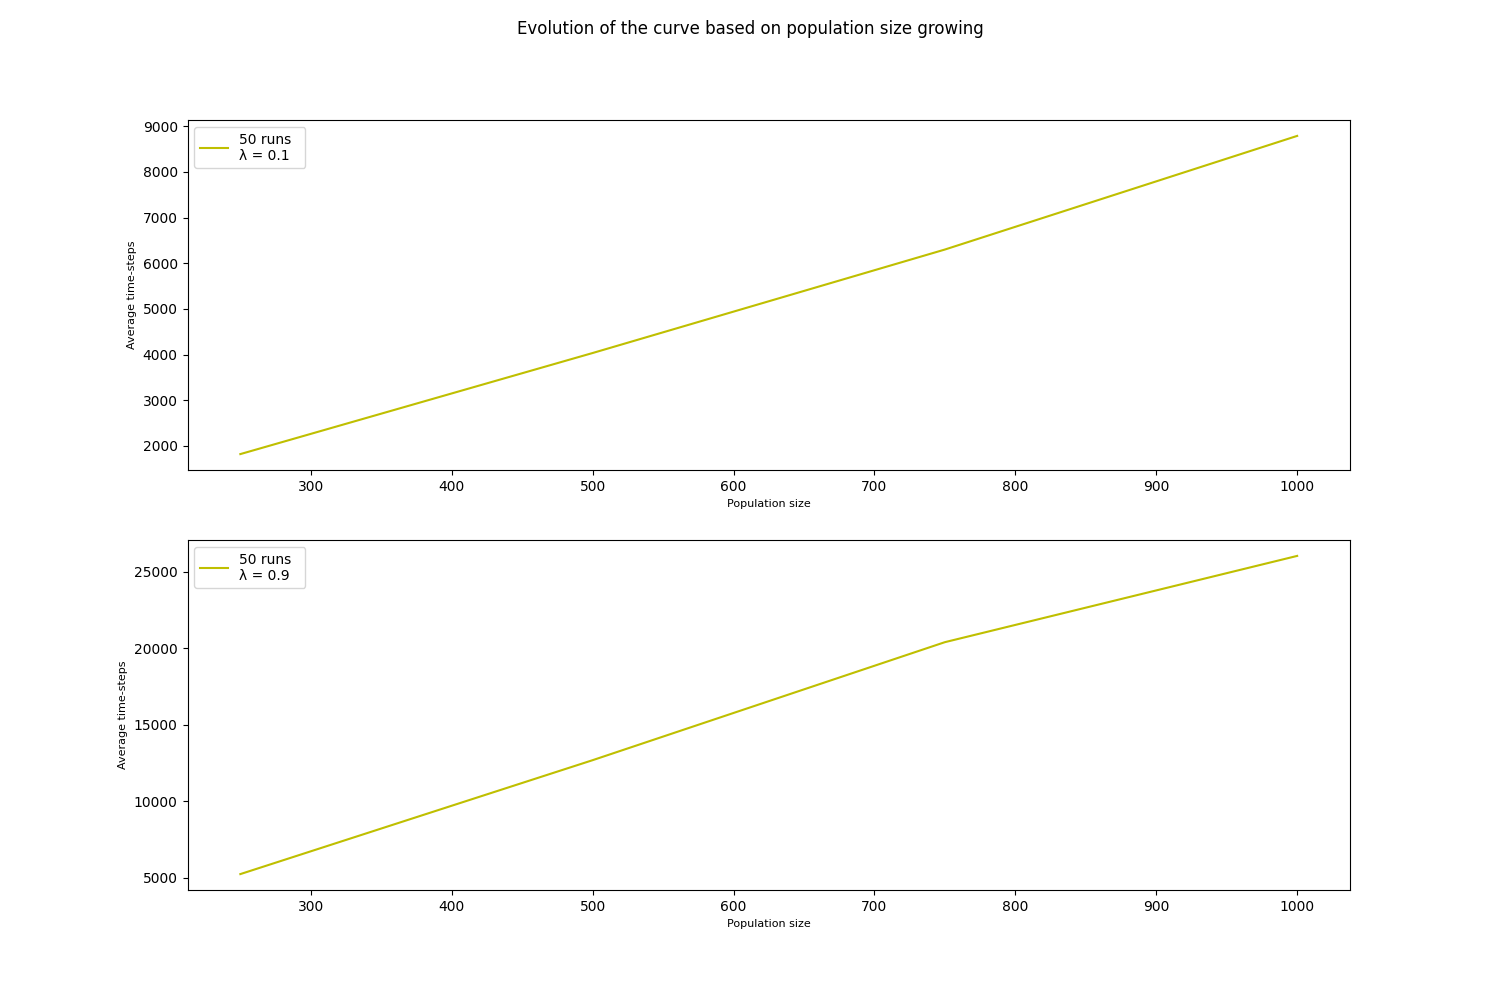
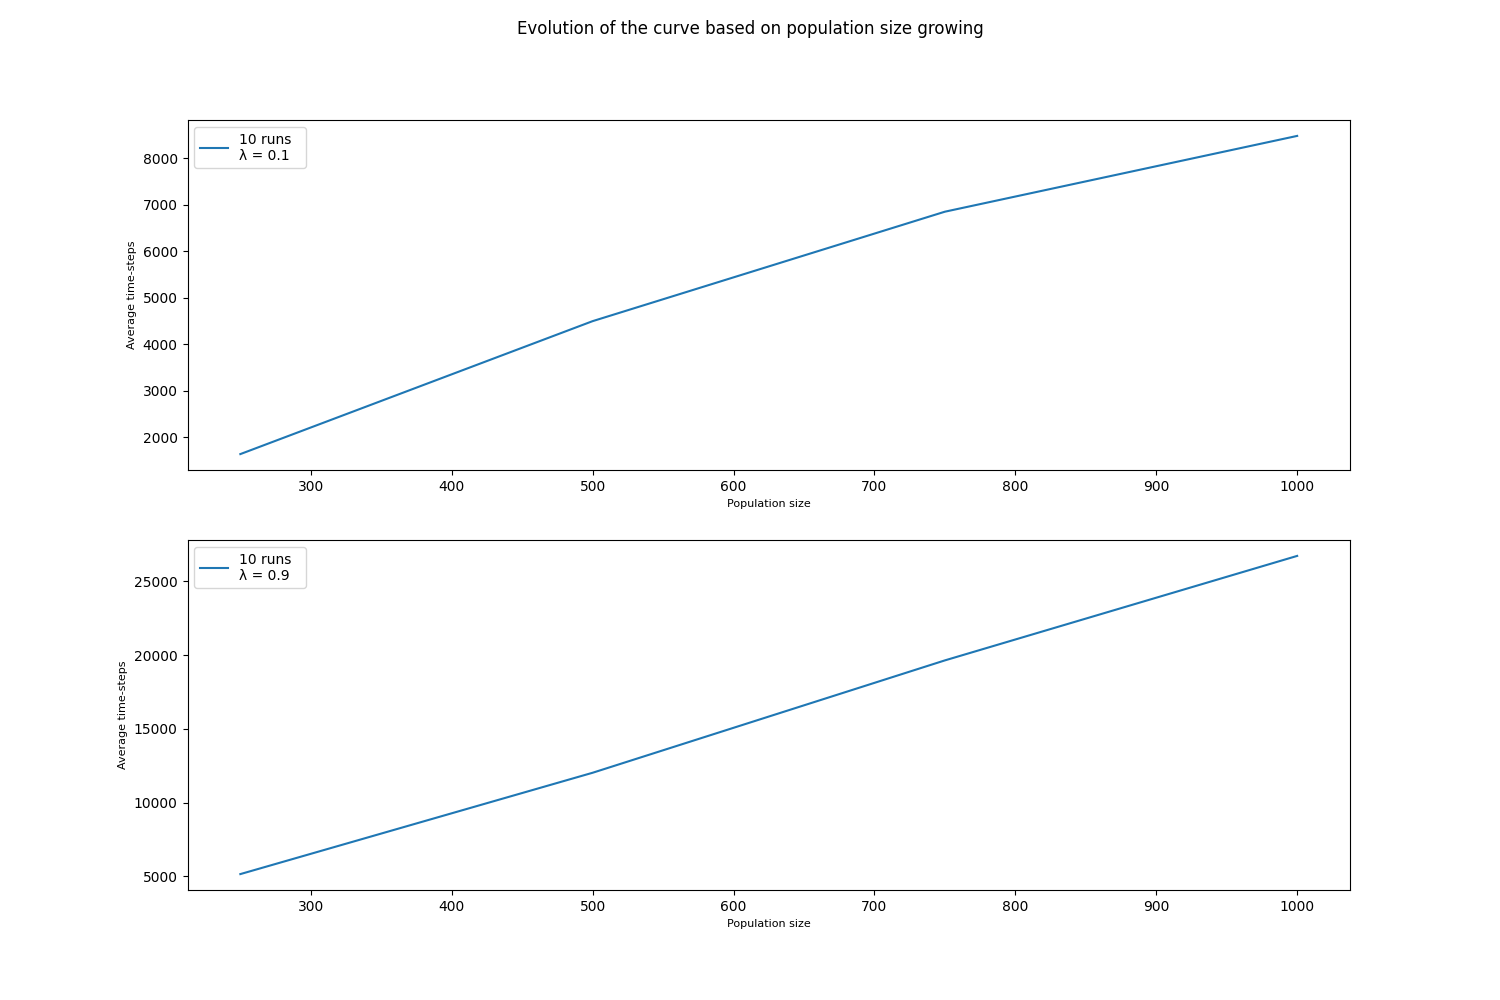
Updated plots

diff --git a/ContactProcess_N.py b/ContactProcess_N.py
@@ -3,21 +3,19 @@ import numpy as np
 import matplotlib.pyplot as plt
 
 
-
 # PROBLEM
 # How many time-steps are needed for a population to go from all its individuals infected (i.e. = 1)
 # to all individuals susceptibles (i.e. = 0)
 
 
 # INPUT PARAMETERS
-# The infection rate lambda is 0.9
+# The infection rate lambda is 0.1 and 0.9
 # Size of the population inceases
 # How many times the simulation is run in order to get the average time steps
 
 
 # OUTPUTS
 # Time-steps 
-
 
 
 
@@ -86,6 +84,7 @@ def return_average_time_steps(lambda_input, number_of_runs, pop_size):
 
 
 
+# Function to simulate the process
 def simulate_pop_size(lambda_input, number_of_runs, pop_size):
     simulations = np.array([])
     individuals = np.array([])
@@ -95,56 +94,79 @@ def simulate_pop_size(lambda_input, number_of_runs, pop_size):
     while pop_size > 2:
         simulations = np.append(simulations, return_average_time_steps(lambda_input, number_of_runs, population_size))
         individuals = np.append(individuals, pop_size)
-        pop_size -= 250
+        pop_size -= 250 #Change this value for different plots
         population_size = return_population(pop_size)
         
     return simulations, individuals
 
 
 
-simuls, individuals = simulate_pop_size(0.1,5,5000)
-simuls1, individuals1 = simulate_pop_size(0.9,5, 5000)
+"""
+# FUNCTION CALLS POPULATION = 100
+simuls, individuals = simulate_pop_size(0.1, 100, 100)
+simuls1, individuals1 = simulate_pop_size(0.9, 100, 100)
 
-# PLOTS
+
+# PLOTS POPULATION = 100
 fig, (ax1, ax2) = plt.subplots(2, 1, figsize=(15,10))
 fig.suptitle('Evolution of the curve based on population size growing')
 
-ax1.plot(individuals, simuls, label='5 runs  \nλ = 0.1', color='y')
+ax1.plot(individuals, simuls, label='100 runs  \nλ = 0.1', color='k')
 ax1.set_ylabel('Average time-steps', fontsize=(8))
 ax1.set_xlabel('Population size', fontsize=(8))
 ax1.legend()
 
-ax2.plot(individuals1, simuls1, label='5 runs  \nλ = 0.9', color='y')
+ax2.plot(individuals1, simuls1, label='100 runs  \nλ = 0.9', color='k')
 ax2.set_ylabel('Average time-steps', fontsize=(8))
 ax2.set_xlabel('Population size', fontsize=(8))
 ax2.legend()
 
-fig.savefig("Population size 5000")
-plt.show()
+fig.savefig("Population_size_100")
 
 
-'''
-# FUNCTION CALLS
-simuls, individuals = simulate_pop_size(0.1, 50, 1000)
-simuls2, individuals2 = simulate_pop_size(0.9, 50, 1000)
-#simuls3, individuals3 = simulate_pop_size(5, 10, 1000)
+#-----------------------------------------------------------------
+# FUNCTION CALLS POPULATION = 1000
+simuls, individuals = simulate_pop_size(0.1, 10, 1000)
+simuls1, individuals1 = simulate_pop_size(0.9, 10, 1000)
 
 
-# PLOTS
+# PLOTS POPULATION = 1000
 fig, (ax1, ax2) = plt.subplots(2, 1, figsize=(15,10))
 fig.suptitle('Evolution of the curve based on population size growing')
 
-ax1.plot(individuals, simuls, label='50 runs  \nλ = 0.1', color='y')
+ax1.plot(individuals, simuls, label='10 runs  \nλ = 0.1')
 ax1.set_ylabel('Average time-steps', fontsize=(8))
 ax1.set_xlabel('Population size', fontsize=(8))
 ax1.legend()
 
-ax2.plot(individuals2, simuls2, label='50 runs  \nλ = 0.9', color='y')
+ax2.plot(individuals1, simuls1, label='10 runs  \nλ = 0.9')
 ax2.set_ylabel('Average time-steps', fontsize=(8))
 ax2.set_xlabel('Population size', fontsize=(8))
 ax2.legend()
 
-fig.savefig("Population size 1000")
-plt.show()
+fig.savefig("Population_size_1000")
 
-'''
+
+"""
+#-----------------------------------------------------------------
+# FUNCTION CALLS POPULATION = 5000
+simuls, individuals = simulate_pop_size(0.1,2,5000)
+simuls1, individuals1 = simulate_pop_size(0.9,2, 5000)
+
+
+# PLOTS POPULATION = 5000
+fig, (ax1, ax2) = plt.subplots(2, 1, figsize=(15,10))
+fig.suptitle('Evolution of the curve based on population size growing')
+
+ax1.plot(individuals, simuls, label='2 runs  \nλ = 0.1', color='y')
+ax1.set_ylabel('Average time-steps', fontsize=(8))
+ax1.set_xlabel('Population size', fontsize=(8))
+ax1.legend()
+
+ax2.plot(individuals1, simuls1, label='2 runs  \nλ = 0.9', color='y')
+ax2.set_ylabel('Average time-steps', fontsize=(8))
+ax2.set_xlabel('Population size', fontsize=(8))
+ax2.legend()
+
+fig.savefig("Population_size_5000")
+

diff --git a/ContactProcess_Lambda.py b/ContactProcess_Lambda.py
@@ -19,7 +19,6 @@ import matplotlib.pyplot as plt
 
 
 
-
 # Function to print the index of the neighbour for line graph
 def return_neighbour_index(target_index, population):   
     if target_index == 0:
@@ -70,7 +69,6 @@ def return_average_time_steps(lambda_input, number_of_runs):
     
     average = total_time_steps / number_of_runs
     return average
-
 
 
 
@@ -127,7 +125,6 @@ ax1.set_ylabel('Average time-steps', fontsize=(8))
 ax1.set_xlabel('λ', fontsize=(8))
 ax1.legend()
 
-
 #Lambda goes from 0.1 to 5
 ax3.plot(lambdas5_100, simuls5_100, label='100 runs', color='r')
 ax3.plot(lambdas5_1000, simuls5_1000, label='1000 runs', color='b')
@@ -135,33 +132,5 @@ ax3.set_ylabel('Average time-steps', fontsize=(8))
 ax3.set_xlabel('λ', fontsize=(8))
 ax3.legend()
 
+fig.savefig("Increasing_lambda")
 
-fig.savefig("Increasing lambda")
-
-
-
-
-
-
-
-
-########################
-'''
-# Function to print the index of the neighbour for ring graph
-def return_neighbour_index(target_index, population_graph):   
-    if target_index == 0:
-        target_neighbour_index = 1
-
-    elif target_index == len(population_graph) - 1:
-        target_neighbour_index = target_index  - 1
-        
-    elif np.random.rand() < (1/3):
-        target_neighbour_index = target_index - 1
-    
-    elif  np.random.rand() < (2/3):
-        target_neighbour_index = target_index
-    
-    else:
-        target_neighbour_index = target_index + 1
-    return target_neighbour_index
-'''

diff --git a/README.md b/README.md
@@ -4,7 +4,8 @@ Project for the probability and statistics course (Master's Degree Data Science)
 
 ___
 
-The contact process is a discrete Markov chain with state space *S := {0,1}*. *x ∈ S*. So if *xi = 1* we say vertex *i* is *infected*, if *xi = 0* we say vertex *i* is *susceptible*.
+The contact process is a discrete Markov chain with state space *S := {0,1}*. *x ∈ S*. 
+So if *xi = 1* we say vertex *i* is *infected*, if *xi = 0* we say vertex *i* is *susceptible*.
 
 The function below returns the index of the neighbours of the current vertex.
 ```python
@@ -28,7 +29,7 @@ def return_neighbour_index(target_index, population):
 
 
 The function below transforms all infected vertices of a population to susceptible. 
-It returns the T (i.e. the time steps needed to reach the absorbing state were all vertices are suceptible).
+It returns the *T* (i.e. the time steps needed to reach the absorbing state were all vertices are suceptible).
 ```python
 
 def return_single_time_value(population_graph, lambda_input):
@@ -53,8 +54,8 @@ def return_single_time_value(population_graph, lambda_input):
 
 
 
-By the law of large numbers T^ is an estimate for the expected value of T.
-The function below returns T^.
+By the law of large numbers *T^* is an estimate for the expected value of *T*.
+The function below returns *T^*.
 ```python
 def return_average_time_steps(lambda_input, number_of_runs):    
     total_time_steps = 0
@@ -72,10 +73,10 @@ ___
 
 ## SIMULATING WITH INCREASING λ
 
-The function below simulates the process by running it a specified number of times, with λ increasing.
+The function below simulates the process by running it a specified number of times, with *λ* increasing.
 It returns two arrays:
-- of λ values to be plotted on the x axis  
-- of T value for each λ calculated from the runs of the simulation
+- of *λ* values to be plotted on the x axis  
+- of *T* value for each *λ* calculated from the runs of the simulation
 ```python
 def simulate(number_of_runs):
 
@@ -97,9 +98,9 @@ The result is the plot below
 
 ![Graph for increasing lambda](Increasing_lambda.png)
 
-As we can see T^ depends on *λ*:
-- for *λ* small (i.e. 0.1 < *λ* < 0.9) T^ also small
-- as soon as *λ* crosses the critical value *λc* (i.e. roughly 0.9) T starts growing faster.
+As we can see *T^* depends on *λ*:
+- for *λ* small (i.e. 0.1 < *λ* < 0.9) *T^* is also small
+- as soon as *λ* crosses the critical value *λc* (i.e. roughly 0.9) *T^* starts growing faster.
 
 
 
@@ -127,13 +128,16 @@ def simulate_pop_size(lambda_input, number_of_runs, pop_size):
     return simulations, individuals
 ```
 
-The result is the plot below
+The result can be seen in the plots below
 
+![Graph for increasing population size](Population_size_100.png)
 
 ![Graph for increasing population size](Population_size_1000.png)
 
-As we can see T^ depends not only on *λ* being larger or smaller than the critical value, but also on the number of vertices.
-In fact with a large number of vertices a larger number of T^ is needed to reach the absorbing state, where all vertices are susceptible (i.e equals to 0).
+![Graph for increasing population size](Population_size_5000.png)
+
+As we can see *T^* depends not only on *λ* being larger or smaller than the critical value, but also on the number of vertices.
+In fact with a large number of vertices, also a larger number of *T^* is needed to reach the absorbing state.
 
 
 
